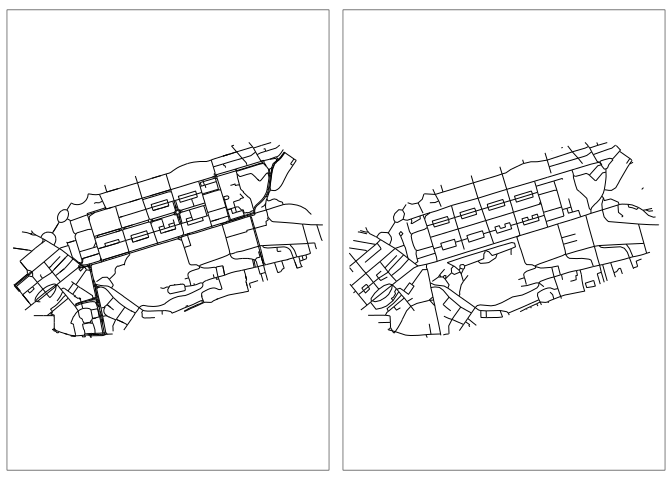
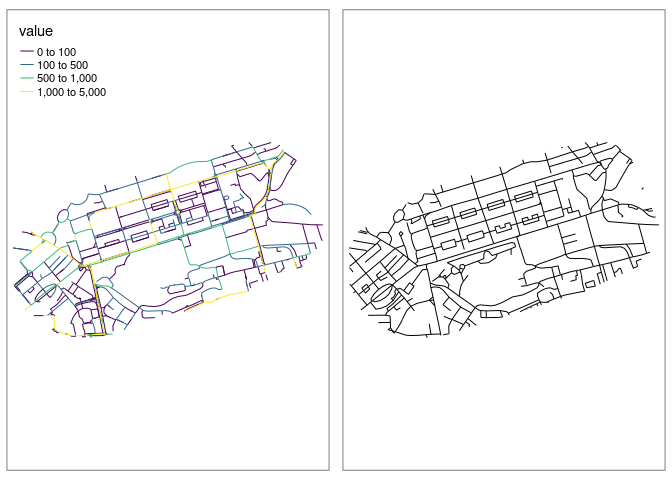
Update with nearly fixed results

Changed region(s): [[0.0312, 0.2812, 0.4688, 0.7188], [0.0312, 0.0625, 0.1562, 0.2188]]

diff --git a/merge.md b/merge.md
@@ -3,34 +3,31 @@
 
 The following example requires R and the following packages:
 
-..
-
 ``` r
 library(tidyverse)
 library(sf)
 library(tmap)
 ```
 
+# Input data
+
+The inputs are as follows:
+
 ``` r
 input_complex = sf::read_sf("data/rnet_princes_street.geojson")
-# input_simple = sf::read_sf("data/Edc_Roadlink.geojson")
-# input_complex_union = sf::st_union(input_complex)
-# input_complex_30m_buffer = sf::st_buffer(input_complex_union, 30)
-# input_complex_convex_hull = sf::st_convex_hull(input_complex_union)
-# input_simple = sf::st_intersection(input_simple, input_complex_convex_hull)
-# sf::write_sf(input_simple, "data/rnet_pinces_street_simple.geojson")
-# names(input_complex)[1] = "value"
-# sf::write_sf(input_complex, "data/rnet_princes_street.geojson", delete_dsn = TRUE)
 input_simple = sf::read_sf("data/rnet_pinces_street_simple.geojson")
 ```
 
 ``` r
-m1 = qtm(input_complex)
-m2 = qtm(input_simple)
+brks = c(0, 100, 500, 1000, 5000)
+m1 = tm_shape(input_complex) + tm_lines("value", palette = "viridis", breaks = brks)
+m2 = tm_shape(input_simple) + tm_lines()
 tmap_arrange(m1, m2, nrow = 1)
 ```
 
 ![](merge_files/figure-commonmark/inputs-1.png)
+
+# Joining the data
 
 ``` r
 remotes::install_github("ropensci/stplanr")
@@ -145,71 +142,71 @@ We can calculate the distance-weighted average of the network values as
 follows:
 
 ``` r
-summary(rnet_joined$length_y)
+rnetj_summary = rnet_joined %>%
+  sf::st_drop_geometry() %>%
+  group_by_at(1) %>%
+    summarise(
+      mean_flow = weighted.mean(value, length_y, na.rm = TRUE),
+      total_flow_m = sum(value * length_y, na.rm = TRUE)
+      )
+input_simple_joined = left_join(input_simple, rnetj_summary)
 ```
 
-         Min.   1st Qu.    Median      Mean   3rd Qu.      Max.      NA's 
-      0.00819   5.71282  11.58242  20.87195  23.08895 254.92652        13 
+    Joining with `by = join_by(identifier)`
 
 ``` r
-summary(rnet_joined$length)
+input_simple_joined = input_simple_joined |>
+  mutate(value = total_flow_m / length)
 ```
 
-        Min.  1st Qu.   Median     Mean  3rd Qu.     Max.     NA's 
-      0.6247   9.5251  17.4445  32.5600  38.5052 559.2821       13 
+The initial result is as follows:
 
 ``` r
-rnet_joined_df = rnet_joined |>
-  sf::st_drop_geometry() |>
-  mutate(value_weighted = value * length_y)
-total_d = sum(input_complex$length * input_complex$value, na.rm = TRUE)
-total_j = sum(rnet_joined_df$value_weighted, na.rm = TRUE)
-difference = total_d / total_j
-round(1 - total_d / total_j, 3) # New net has 15% more value
+# sanity check lengths:
+# cor(input_complex$length, sf::st_length(input_complex)) # 100%
+total_flow_input = round(sum(input_complex$value * input_complex$length) / 1000)
+# output:
+total_flow_output = round(sum(input_simple_joined$value * as.numeric(sf::st_length((input_simple_joined))), na.rm = TRUE) / 1000)
+
+message("Total flow input: ", total_flow_input, "km")
 ```
 
-    [1] 0.152
+    Total flow input: 17164km
 
 ``` r
-rnet_joined_df$value_weighted = rnet_joined_df$value_weighted * difference
-# sum(rnet_joined_df$value_weighted, na.rm = 
-# TRUE) / sum(rnet_joined_df$length_y, na.rm = TRUE)
-# sum(input_complex$value * input_complex$length) / sum(input_complex$length)
-rnet_joined_aggregated = rnet_joined_df |>
-  group_by(identifier) |>
-  summarise(value = sum(value_weighted, na.rm = TRUE) / sum(length_y, na.rm = TRUE))
-sum(rnet_joined_aggregated$value, na.rm = TRUE) == sum(input_complex$value, na.rm = TRUE)
+message("Total flow output: ", total_flow_output, "km")
 ```
 
-    [1] FALSE
+    Total flow output: 19888km
 
 ``` r
-rnet_joined_linestrings = left_join(input_simple, rnet_joined_aggregated, by = "identifier")
+summary(input_simple_joined$flow)
 ```
 
-The result is as follows:
+    Warning: Unknown or uninitialised column: `flow`.
+
+    Length  Class   Mode 
+         0   NULL   NULL 
 
 ``` r
-tm_shape(rnet_joined_linestrings) + tm_lines("value")
+m1 = tm_shape(input_complex) + tm_lines("value", palette = "viridis", breaks = brks)
+m2 = tm_shape(input_simple_joined) + tm_lines("value", palette = "viridis", breaks = brks)
+tmap_arrange(m1, m2, nrow = 1)
 ```
+
+    Warning: Values have found that are higher than the highest break
 
 ![](merge_files/figure-commonmark/joined-1.png)
 
-``` r
-rnet_joined_linestrings$length_simple = as.numeric(sf::st_length(rnet_joined_linestrings))
-cor(rnet_joined_linestrings$length_simple, rnet_joined_linestrings$length)
-```
+# Explanation
 
-    [1] 0.8687748
+To clarify what’s going on, lets do the process only for a couple of
+lines, and break the process down into steps.
 
 ``` r
-sum(rnet_joined_linestrings$value * rnet_joined_linestrings$length, na.rm = TRUE)
+input_simple_minimal = input_simple |>
+  filter(identifier == "13CF96CE-2A95-451B-B859-E5511B2DEF81" | identifier == "C90C4EA9-5E6A-4A6A-ADEB-5EC5937F6C3A") 
+# tm_shape(input_simple_minimal) + tm_lines()
 ```
 
-    [1] 9762652
-
-``` r
-sum(input_complex$value * input_complex$length, na.rm = TRUE)
-```
-
-    [1] 17164314
+The first stage is to take
